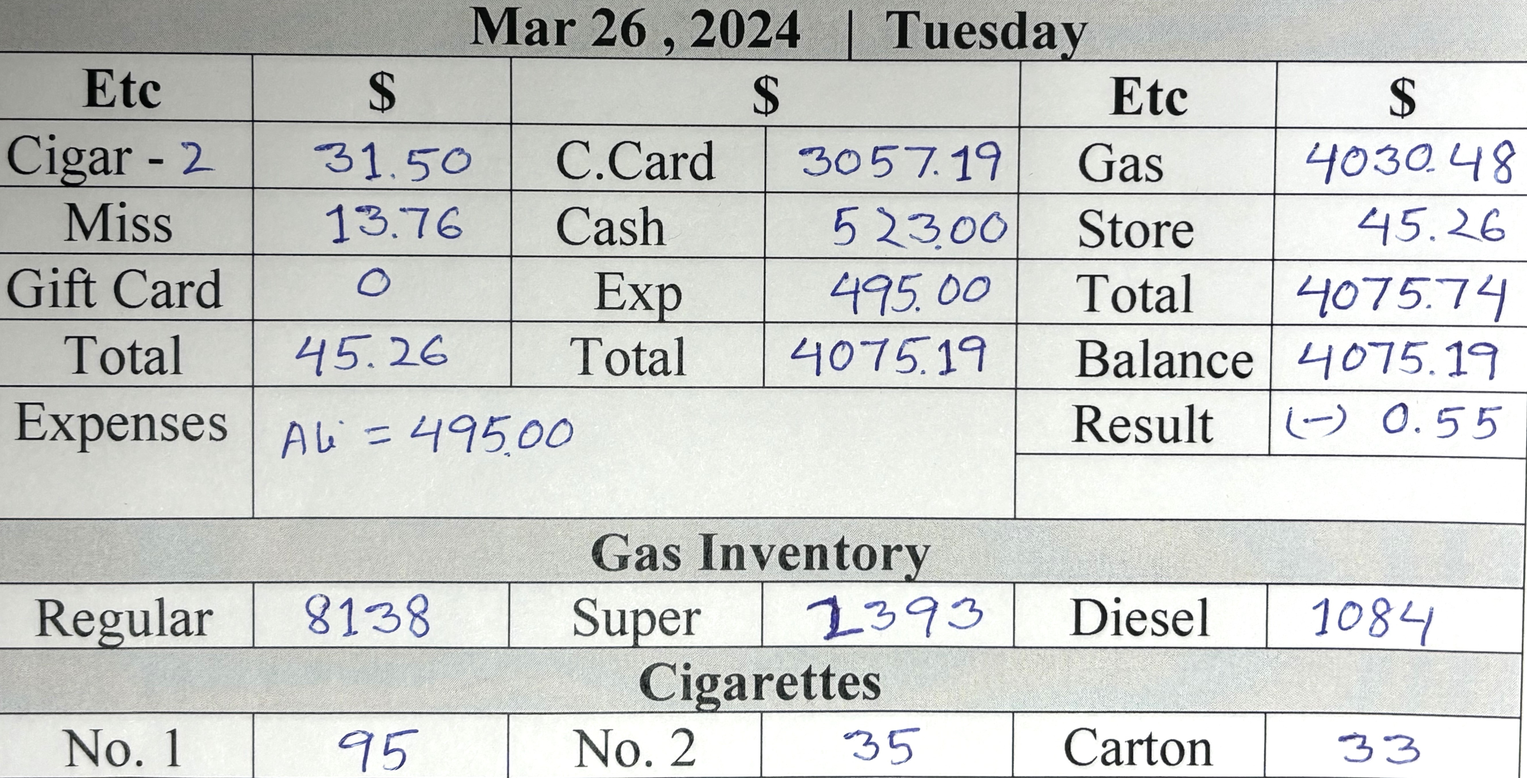
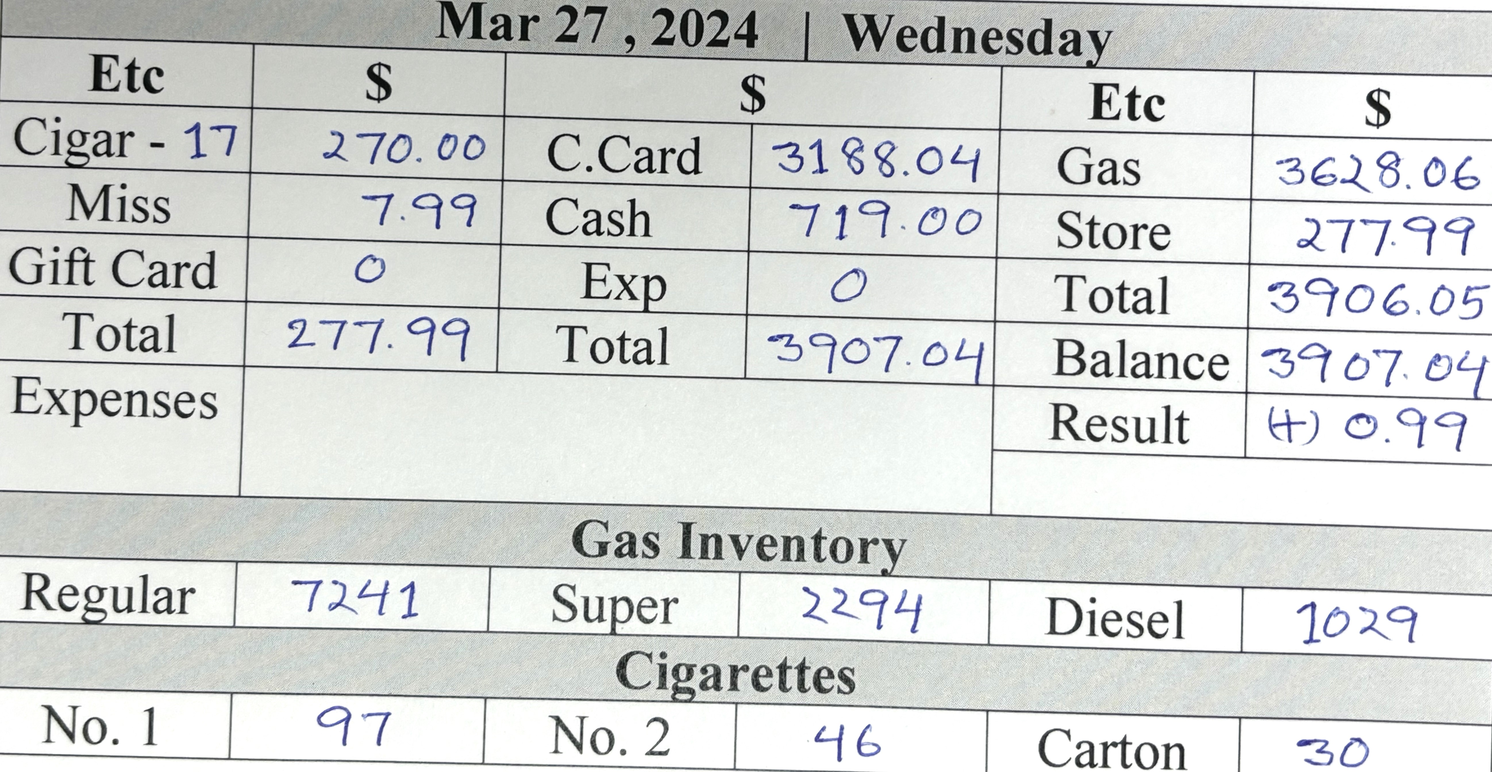
d

diff --git a/card.min.html b/card.min.html
@@ -1,1 +1,1 @@
-<!DOCTYPE html> <html lang="en"> <head> <meta charset="UTF-8"> <meta http-equiv="X-UA-Compatible" content="IE=edge"> <meta name="viewport" content="width=device-width,initial-scale=1"> <title>Gallon Info</title> <link rel="stylesheet" href="https://cdn.jsdelivr.net/npm/bootstrap@5.3.0-alpha1/dist/css/bootstrap.min.css"> </head> <body> <div class="card-group d-sm-flex flex-row bd-highlight mb- justify-content-center"> <div class="card bg-secondary align-items-center justify-content-center" style="height:50px"> <div class="card-body text-info fst-italic"> <h5 class="card-title fw-bolder text-center">Regular Price : <span class="text-warning">$3.25</span></h5> </div> </div> <div class="card bg-secondary align-items-center justify-content-center" style="height:50px"> <div class="card-body text-info fst-italic"> <h5 class="card-title fw-bolder text-center pt-">Silver Price : <span class="text-warning">$4.19</span></h5> </div> </div> <div class="card bg-secondary align-items-center justify-content-center" style="height:50px"> <div class="card-body text-info fst-italic"> <h5 class="card-title fw-bolder text-center">Super Price : <span class="text-warning">$4.29</span></h5> </div> </div> <div class="card bg-secondary align-items-center justify-content-center" style="height:50px"> <div class="card-body text-info fst-italic"> <h5 class="card-title fw-bolder text-center">Diesel Price : <span class="text-warning">$4.39</span></h5> </div> </div> </div> <div class="card-group"> <div class="card"> <button type="button" class="btn btn-warning text- fs- fw-bold text-uppercase"> For store Details <a title="printPage Me" class="text-bg-danger ms-3 fw-bolder p-1 rounded-3 text-decoration-none" href="index.html"> Click Me </a> </button> </div> </div> <div class="card-group m-0 d-sm-flex flex-row bd-highlight mb-"> <div class="card me-1 bg-info"> <h5 class="card-title text-center pt-4 m-0"> <button class="p-1 rounded-3" type="button"><a title="Click Me" class="text-decoration-none text-primary fw-bolder" href="index.html">   </a> </button> </h5>  <p class="card-text"></p> <img src="allPic/26.jpg" class="card-img-top text-danger text-center fw-bolder fs-3" alt="Call Rashid "> <div class="card-body">   <p class="card-text"></p> </div> </div> <div class="card me-1 bg-info"> <h5 class="card-title text-center pt-4 m-0"> <button class="p-1 rounded-3" type="button"><a title="Click Me" class="text-primary fw-bolder text-decoration-none" href="index.html"> Mar 25,2024 </a> </button> </h5>  <p class="card-text"></p> <img src="allPic/25.jpg" class="card-img-top text-center text-bg-danger" alt="Not Done"> <div class="card-body">   <p class="card-text"></p> </div> </div> <div class="card ms- bg-info"> <h5 class="card-title text-center pt-4 m-0"> <button class="p-1 rounded-3" type="button"><a title="Click Me" class="text-primary fw-bolder text-decoration-none" href="index.html"> Mar 24,2024 </a> </button> </h5>  <p class="card-text"></p> <img src="allPic/24.jpg" class="card-img-top text-center text-bg-danger" alt="Not Done"> <div class="card-body">   <p class="card-text"></p> </div> </div> <div class="card me-1 bg-info"> <h5 class="card-title text-center pt-4 m-0"> <button class="p-1 rounded-3" type="button"><a title="Click Me" class="text-primary fw-bolder text-decoration-none" href="index.html"> Mar 23,2024 </a> </button> </h5>  <p class="card-text"></p> <img title="Pic" src="allPic/23.jpg" class="card-img-top text-bg-danger fw-bolder text-center" alt="Already Done"> <div class="card-body">   <p class="card-text"></p> </div> </div> </div> <div class="card"> <div class="card-header bg-warning text-dark fw-bolder text-center py-3"> All Rights Reserved @ Jaber Ali , 2024 </div> </div>  <script type="text/javascript">const timeElement=document.querySelector(".time"),dateElement=document.querySelector(".date");function formatTime(e){e.getHours(),e.getMinutes(),e.getHours();return""}function formatDate(e){return` ${["January","Marruary","March","April","May","June","July","August","September","October","November","December"][e.getMonth()]} ${e.getDate()-1}, ${e.getFullYear()}`}setInterval((()=>{const e=new Date;timeElement.textContent=formatTime(e),dateElement.textContent=formatDate(e)}),200)</script> 
+<!DOCTYPE html> <html lang="en"> <head> <meta charset="UTF-8"> <meta http-equiv="X-UA-Compatible" content="IE=edge"> <meta name="viewport" content="width=device-width,initial-scale=1"> <title>Gallon Info</title> <link rel="stylesheet" href="https://cdn.jsdelivr.net/npm/bootstrap@5.3.0-alpha1/dist/css/bootstrap.min.css"> </head> <body> <div class="card-group d-sm-flex flex-row bd-highlight mb- justify-content-center"> <div class="card bg-secondary align-items-center justify-content-center" style="height:50px"> <div class="card-body text-info fst-italic"> <h5 class="card-title fw-bolder text-center">Regular Price : <span class="text-warning">$3.25</span></h5> </div> </div> <div class="card bg-secondary align-items-center justify-content-center" style="height:50px"> <div class="card-body text-info fst-italic"> <h5 class="card-title fw-bolder text-center pt-">Silver Price : <span class="text-warning">$4.19</span></h5> </div> </div> <div class="card bg-secondary align-items-center justify-content-center" style="height:50px"> <div class="card-body text-info fst-italic"> <h5 class="card-title fw-bolder text-center">Super Price : <span class="text-warning">$4.29</span></h5> </div> </div> <div class="card bg-secondary align-items-center justify-content-center" style="height:50px"> <div class="card-body text-info fst-italic"> <h5 class="card-title fw-bolder text-center">Diesel Price : <span class="text-warning">$4.39</span></h5> </div> </div> </div> <div class="card-group"> <div class="card"> <button type="button" class="btn btn-warning text- fs- fw-bold text-uppercase"> For store Details <a title="printPage Me" class="text-bg-danger ms-3 fw-bolder p-1 rounded-3 text-decoration-none" href="index.html"> Click Me </a> </button> </div> </div> <div class="card-group m-0 d-sm-flex flex-row bd-highlight mb-"> <div class="card me-1 bg-info"> <h5 class="card-title text-center pt-4 m-0"> <button class="p-1 rounded-3" type="button"><a title="Click Me" class="text-decoration-none text-primary fw-bolder" href="index.html">   </a> </button> </h5>  <p class="card-text"></p> <img src="allPic/27.jpg" class="card-img-top text-danger text-center fw-bolder fs-3" alt="Call Rashid "> <div class="card-body">   <p class="card-text"></p> </div> </div> <div class="card me-1 bg-info"> <h5 class="card-title text-center pt-4 m-0"> <button class="p-1 rounded-3" type="button"><a title="Click Me" class="text-primary fw-bolder text-decoration-none" href="index.html"> Mar 26,2024 </a> </button> </h5>  <p class="card-text"></p> <img src="allPic/26.jpg" class="card-img-top text-center text-bg-danger" alt="Not Done"> <div class="card-body">   <p class="card-text"></p> </div> </div> <div class="card ms- bg-info"> <h5 class="card-title text-center pt-4 m-0"> <button class="p-1 rounded-3" type="button"><a title="Click Me" class="text-primary fw-bolder text-decoration-none" href="index.html"> Mar 25,2024 </a> </button> </h5>  <p class="card-text"></p> <img src="allPic/25.jpg" class="card-img-top text-center text-bg-danger" alt="Not Done"> <div class="card-body">   <p class="card-text"></p> </div> </div> <div class="card me-1 bg-info"> <h5 class="card-title text-center pt-4 m-0"> <button class="p-1 rounded-3" type="button"><a title="Click Me" class="text-primary fw-bolder text-decoration-none" href="index.html"> Mar 24,2024 </a> </button> </h5>  <p class="card-text"></p> <img title="Pic" src="allPic/24.jpg" class="card-img-top text-bg-danger fw-bolder text-center" alt="Already Done"> <div class="card-body">   <p class="card-text"></p> </div> </div> </div> <div class="card"> <div class="card-header bg-warning text-dark fw-bolder text-center py-3"> All Rights Reserved @ Jaber Ali , 2024 </div> </div>  <script type="text/javascript">const timeElement=document.querySelector(".time"),dateElement=document.querySelector(".date");function formatTime(e){e.getHours(),e.getMinutes(),e.getHours();return""}function formatDate(e){return` ${["January","Marruary","March","April","May","June","July","August","September","October","November","December"][e.getMonth()]} ${e.getDate()-1}, ${e.getFullYear()}`}setInterval((()=>{const e=new Date;timeElement.textContent=formatTime(e),dateElement.textContent=formatDate(e)}),200)</script> 

diff --git a/index.min.html b/index.min.html
@@ -1,1 +1,1 @@
-<!DOCTYPE html> <html lang="en"> <head> <meta charset="UTF-8"> <meta http-equiv="X-UA-Compatible" content="IE=edge"> <meta name="viewport" content="width=device-width,initial-scale=1"> <title>Store Info</title> <link rel="stylesheet" href="https://cdn.jsdelivr.net/npm/bootstrap@5.3.0-alpha1/dist/css/bootstrap.min.css"> </head> <body> <div class="text-bg-success py-2 fw-bold text-uppercase"> <marquee behavior="" direction=""><span class="text-bolder text-bg-danger rounded-circle m-lg-2 fs-">***</span> Personal Business Information <span class="text-bolder text-bg-danger rounded-circle m-lg-2 fs-">***</span></marquee> </div> <div class="card-group"> <div class="card"> <button type="button" class="btn btn-warning fs- fw-bold text-uppercase"> For Gallon Details <a title="printPage Me" class="text-bg-danger ms-3 fw-bolder p-1 rounded-3 text-decoration-none" href="card.html"> Click Me </a> </button> </div> <div class="card"> <button type="button" class="btn btn-warning fs- fw-bold text-uppercase"> Weekly Total Money<a title="printPage Me" class="text-bg-danger ms-3 fw-bolder p-1 rounded-3 text-decoration-none" href="weekly.html"> Click Me </a> </button> </div> </div> <div class="card-group"> <div class="card"> <button type="button" class="btn btn-warning fs- fw-bold text-uppercase"> Order Cigarettes <a title="printPage Me" class="text-bg-danger ms-3 fw-bolder p-1 rounded-3 text-decoration-none" href="cigarettes.html"> Click Me </a> </button> </div> <div class="card"> <button type="button" class="btn btn-warning fs- fw-bold text-uppercase"> Oil Inventory<a title="printPage Me" class="text-bg-danger ms-3 fw-bolder p-1 rounded-3 text-decoration-none" href="oil.html"> Click Me </a> </button> </div> </div> <div class="text-center py-2"> <button class="fw-bold fs-5 rounded-2 text-bg-light text-primary"> <a title="printPage Me" class="text-decoration-none" href="card.html">   <span class=""> <button class="ms-5 fw-bolder rounded-2" onclick="printPage()"> Print Me </button></span> </a> </button> </div> <div class="card-group"> <div class="card"> <button type="button" class="btn btn-info fs- fw-bold text-uppercase"> Shift Report <span class="text-white ms-1">*</span> </button> <img src="allPic/hisab.jpg" class="card-img-top text-center text-bg-danger" alt="NOT FINISH"> </div> </div> <div class="card-grou"> <div class="card pb-3"> <button type="button" class="btn btn-secondary fs fw-bold text-uppercase"> Exp : <span class="text-warning ms-3">0 </span> </button> </div> </div> <div class="card-group"> <div class="card"> <button type="button" class="btn btn-secondary fs- fw-bold text-uppercase"> Auto shop </button> </div> </div> <div class="pb-3"> <div class="d-flex justify-content-around border border-dark fw-bolder"> <div class="p-0 text-info">T.M</div> <div class="p-0 text-danger">942 </div> <div class="p-0 text-info">Etc</div> <div class="p-0 text-danger">167</div> <div class="p-0 text-info">Rest</div> <div class="p-0 text-danger">775</div> </div> </div> <!-- #footer start --> <div class="text-bg-warning text-center py-3 fw-bold"> All Rights Reserved @ Jaber Ali , 2024 </div>  <script type="text/javascript">function printPage(){window.print()}const timeElement=document.querySelector(".time"),dateElement=document.querySelector(".date");function formatTime(t){const e=t.getHours()%12||12,n=t.getMinutes(),r=t.getHours()<12;return`${e.toString().padStart(2,"0")}:${n.toString().padStart(2,"0")} ${r?"AM":"PM"}`}function formatDate(t){return` ${["January","February","March","April","May","June","July","August","September","October","November","December"][t.getMonth()]} ${t.getDate()-1}, ${t.getFullYear()}`}setInterval((()=>{const t=new Date;timeElement.textContent=formatTime(t),dateElement.textContent=formatDate(t)}),200)</script> 
+<!DOCTYPE html> <html lang="en"> <head> <meta charset="UTF-8"> <meta http-equiv="X-UA-Compatible" content="IE=edge"> <meta name="viewport" content="width=device-width,initial-scale=1"> <title>Store Info</title> <link rel="stylesheet" href="https://cdn.jsdelivr.net/npm/bootstrap@5.3.0-alpha1/dist/css/bootstrap.min.css"> </head> <body> <div class="text-bg-success py-2 fw-bold text-uppercase"> <marquee behavior="" direction=""><span class="text-bolder text-bg-danger rounded-circle m-lg-2 fs-">***</span> Personal Business Information <span class="text-bolder text-bg-danger rounded-circle m-lg-2 fs-">***</span></marquee> </div> <div class="card-group"> <div class="card"> <button type="button" class="btn btn-warning fs- fw-bold text-uppercase"> For Gallon Details <a title="printPage Me" class="text-bg-danger ms-3 fw-bolder p-1 rounded-3 text-decoration-none" href="card.html"> Click Me </a> </button> </div> <div class="card"> <button type="button" class="btn btn-warning fs- fw-bold text-uppercase"> Weekly Total Money<a title="printPage Me" class="text-bg-danger ms-3 fw-bolder p-1 rounded-3 text-decoration-none" href="weekly.html"> Click Me </a> </button> </div> </div> <div class="card-group"> <div class="card"> <button type="button" class="btn btn-warning fs- fw-bold text-uppercase"> Order Cigarettes <a title="printPage Me" class="text-bg-danger ms-3 fw-bolder p-1 rounded-3 text-decoration-none" href="cigarettes.html"> Click Me </a> </button> </div> <div class="card"> <button type="button" class="btn btn-warning fs- fw-bold text-uppercase"> Oil Inventory<a title="printPage Me" class="text-bg-danger ms-3 fw-bolder p-1 rounded-3 text-decoration-none" href="oil.html"> Click Me </a> </button> </div> </div> <div class="text-center py-2"> <button class="fw-bold fs-5 rounded-2 text-bg-light text-primary"> <a title="printPage Me" class="text-decoration-none" href="card.html">   <span class=""> <button class="ms-5 fw-bolder rounded-2" onclick="printPage()"> Print Me </button></span> </a> </button> </div> <div class="card-group"> <div class="card"> <button type="button" class="btn btn-info fs- fw-bold text-uppercase"> Shift Report <span class="text-white ms-1">*</span> </button> <img src="allPic/hisab.jpg" class="card-img-top text-center text-bg-danger" alt="NOT FINISH"> </div> </div> <div class="card-grou"> <div class="card pb-3"> <button type="button" class="btn btn-secondary fs fw-bold text-uppercase"> Exp : <span class="text-warning ms-3">0 </span> </button> </div> </div> <div class="card-group"> <div class="card"> <button type="button" class="btn btn-secondary fs- fw-bold text-uppercase"> Auto shop </button> </div> </div> <div class="pb-3"> <div class="d-flex justify-content-around border border-dark fw-bolder"> <div class="p-0 text-info">T.M</div> <div class="p-0 text-danger">1077 </div> <div class="p-0 text-info">Etc</div> <div class="p-0 text-danger">260</div> <div class="p-0 text-info">Rest</div> <div class="p-0 text-danger">817</div> </div> </div> <!-- #footer start --> <div class="text-bg-warning text-center py-3 fw-bold"> All Rights Reserved @ Jaber Ali , 2024 </div>  <script type="text/javascript">function printPage(){window.print()}const timeElement=document.querySelector(".time"),dateElement=document.querySelector(".date");function formatTime(t){const e=t.getHours()%12||12,n=t.getMinutes(),r=t.getHours()<12;return`${e.toString().padStart(2,"0")}:${n.toString().padStart(2,"0")} ${r?"AM":"PM"}`}function formatDate(t){return` ${["January","February","March","April","May","June","July","August","September","October","November","December"][t.getMonth()]} ${t.getDate()-1}, ${t.getFullYear()}`}setInterval((()=>{const t=new Date;timeElement.textContent=formatTime(t),dateElement.textContent=formatDate(t)}),200)</script> 

diff --git a/weekly.min.html b/weekly.min.html
@@ -1,1 +1,1 @@
-<!DOCTYPE html> <html lang="en"> <meta charset="UTF-8"> <meta http-equiv="X-UA-Compatible" content="IE=edge"> <meta name="viewport" content="width=device-width,initial-scale=1"> <title>Cigarettes Info</title> <link rel="stylesheet" href="https://cdn.jsdelivr.net/npm/bootstrap@5.3.0-alpha1/dist/css/bootstrap.min.css">  <body> <div class="text-bg-success py-2 fw-bold"> <marquee behavior="" direction="">Weekly Total Sales Money</marquee> </div> <div class="container-fluid text-center m-0 p-0"> <div class="card-group"> <div class="card"> <button type="button" class="btn btn-warning fs- fw-bold text-uppercase"> Home Page <a title="printPage Me" class="text-bg-danger ms-2 fw-bolder p-1 rounded-3 text-decoration-none" href="index.html"> Click Me </a> </button> </div> </div> <div class="text-bg-info text-cente py- fw-bold mb-"> <div class="card-group m-0 d-sm-flex flex-row bd-highlight mb-"> <div class="card me- bg-inf"> <h5 class="text-center ms-5 mt-3 text-danger">Current Week</h5> <div class="card-body ms-3 p-0"> <table class="table"> <tr class="text-end"> <td>Monday </td> <td>:</td> <td class="text-start"> 1040.00</td> </tr> <tr class="text-end"> <td>Tuesday </td> <td> :</td> <td class="text-start"> 1018.00 </td> </tr> <tr class="text-end"> <td>Wednesday</td> <td> :</td> <td class="text-start">.00</td> </tr> <tr class="text-end"> <td>Thursday </td> <td> :</td> <td class="text-start">.00 </td> </tr> <tr class="text-end"> <td class="">Friday </td> <td> :</td> <td class="text-start"> .00</td> </tr> <tr class="text-end"> <td>Saturday </td> <td> :</td> <td class="text-start">.00</td> </tr> <tr class="text-end"> <td>Sunday </td> <td> :</td> <td class="text-start"> .00 </td> </tr> <tr class="text-end"> <td>Auto Money </td> <td> :</td> <td class="text-start"> .00 </td> </tr> </table> <div class="m-0 p-0"> <p class="text-center text-danger bg-light fw-bold">Total Money : 0 </p> </div> </div> </div> <div class="card me- bg-inf"> <h5 class="text-center ms- mt-3 text-danger">Last Week : Mar 18 to 24 , 2024</h5> <div class="card-body ms-3 p-0"> <table class="table"> <tr class="text-end"> <td>Monday </td> <td>:</td> <td class="text-start"> 802.00</td> </tr> <tr class="text-end"> <td>Tuesday </td> <td> :</td> <td class="text-start"> 665.00 </td> </tr> <tr class="text-end"> <td>Wednesday</td> <td> :</td> <td class="text-start">762.00</td> </tr> <tr class="text-end"> <td>Thursday </td> <td> :</td> <td class="text-start">585.00 </td> </tr> <tr class="text-end"> <td class="">Friday </td> <td> :</td> <td class="text-start"> 765.00</td> </tr> <tr class="text-end"> <td>Saturday </td> <td> :</td> <td class="text-start">179.00</td> </tr> <tr class="text-end"> <td>Sunday </td> <td> :</td> <td class="text-start"> 878.00 </td> </tr> <tr class="text-end"> <td>Auto Money </td> <td> :</td> <td class="text-start">749 <sup class="p-1 rounded-4 text-bg-dark">Tax:52</sup> [Mostofa=696.5] </td> </tr> </table> <div class="m-0 p-0"> <p class="text-center text-danger bg-light fw-bold">Total Money : 5385 - 1223 = 4162 </p> </div> </div> </div> <div class="card me- bg-"> <div class="card-body"> <h5 class="text-start text-danger ms-2">Expenses of Last Week</h5> <table class="table text-start"> <tr> <td class="">Ali <span class="ms-5">: 495.00</span></td> </tr> <tr> <td class="">Rashid <span class="ms-3">: 728.00</span></td> </tr> <tr> <td class="text-bg-warning text-dark rounded-2">Total <span class="ms-4">: 1223.00</span></td> </tr> </table> </div> </div> </div> </div> <!-- #footer start --> <div class="text-bg-success text-center py-2 fw-bold"> <p> All Rights Reserved @ Jaber Ali , 2024  </p> </div> </div> <script type="text/javascript">function printPage(){window.print()}</script> 
+<!DOCTYPE html> <html lang="en"> <meta charset="UTF-8"> <meta http-equiv="X-UA-Compatible" content="IE=edge"> <meta name="viewport" content="width=device-width,initial-scale=1"> <title>Cigarettes Info</title> <link rel="stylesheet" href="https://cdn.jsdelivr.net/npm/bootstrap@5.3.0-alpha1/dist/css/bootstrap.min.css">  <body> <div class="text-bg-success py-2 fw-bold"> <marquee behavior="" direction="">Weekly Total Sales Money</marquee> </div> <div class="container-fluid text-center m-0 p-0"> <div class="card-group"> <div class="card"> <button type="button" class="btn btn-warning fs- fw-bold text-uppercase"> Home Page <a title="printPage Me" class="text-bg-danger ms-2 fw-bolder p-1 rounded-3 text-decoration-none" href="index.html"> Click Me </a> </button> </div> </div> <div class="text-bg-info text-cente py- fw-bold mb-"> <div class="card-group m-0 d-sm-flex flex-row bd-highlight mb-"> <div class="card me- bg-inf"> <h5 class="text-center ms-5 mt-3 text-danger">Current Week</h5> <div class="card-body ms-3 p-0"> <table class="table"> <tr class="text-end"> <td>Monday </td> <td>:</td> <td class="text-start"> 1040.00</td> </tr> <tr class="text-end"> <td>Tuesday </td> <td> :</td> <td class="text-start"> 1018.00 </td> </tr> <tr class="text-end"> <td>Wednesday</td> <td> :</td> <td class="text-start">719.00</td> </tr> <tr class="text-end"> <td>Thursday </td> <td> :</td> <td class="text-start">.00 </td> </tr> <tr class="text-end"> <td class="">Friday </td> <td> :</td> <td class="text-start"> .00</td> </tr> <tr class="text-end"> <td>Saturday </td> <td> :</td> <td class="text-start">.00</td> </tr> <tr class="text-end"> <td>Sunday </td> <td> :</td> <td class="text-start"> .00 </td> </tr> <tr class="text-end"> <td>Auto Money </td> <td> :</td> <td class="text-start"> .00 </td> </tr> </table> <div class="m-0 p-0"> <p class="text-center text-danger bg-light fw-bold">Total Money : 0 </p> </div> </div> </div> <div class="card me- bg-inf"> <h5 class="text-center ms- mt-3 text-danger">Last Week : Mar 18 to 24 , 2024</h5> <div class="card-body ms-3 p-0"> <table class="table"> <tr class="text-end"> <td>Monday </td> <td>:</td> <td class="text-start"> 802.00</td> </tr> <tr class="text-end"> <td>Tuesday </td> <td> :</td> <td class="text-start"> 665.00 </td> </tr> <tr class="text-end"> <td>Wednesday</td> <td> :</td> <td class="text-start">762.00</td> </tr> <tr class="text-end"> <td>Thursday </td> <td> :</td> <td class="text-start">585.00 </td> </tr> <tr class="text-end"> <td class="">Friday </td> <td> :</td> <td class="text-start"> 765.00</td> </tr> <tr class="text-end"> <td>Saturday </td> <td> :</td> <td class="text-start">179.00</td> </tr> <tr class="text-end"> <td>Sunday </td> <td> :</td> <td class="text-start"> 878.00 </td> </tr> <tr class="text-end"> <td>Auto Money </td> <td> :</td> <td class="text-start">749 <sup class="p-1 rounded-4 text-bg-dark">Tax:52</sup> [Mostofa=696.5] </td> </tr> </table> <div class="m-0 p-0"> <p class="text-center text-danger bg-light fw-bold">Total Money : 5385 - 1223 = 4162 </p> </div> </div> </div> <div class="card me- bg-"> <div class="card-body"> <h5 class="text-start text-danger ms-2">Expenses of Last Week</h5> <table class="table text-start"> <tr> <td class="">Ali <span class="ms-5">: 495.00</span></td> </tr> <tr> <td class="">Rashid <span class="ms-3">: 728.00</span></td> </tr> <tr> <td class="text-bg-warning text-dark rounded-2">Total <span class="ms-4">: 1223.00</span></td> </tr> </table> </div> </div> </div> </div> <!-- #footer start --> <div class="text-bg-success text-center py-2 fw-bold"> <p> All Rights Reserved @ Jaber Ali , 2024  </p> </div> </div> <script type="text/javascript">function printPage(){window.print()}</script> 

diff --git a/card.html b/card.html
@@ -67,7 +67,7 @@
         </h5>
           <p class="card-text"></p>
           <p class="card-text"><small class="text-muted"></small></p>
-        <img src="allPic/26.jpg" class="card-img-top text-danger text-center fw-bolder fs-3"   alt="Call Rashid ">
+        <img src="allPic/27.jpg" class="card-img-top text-danger text-center fw-bolder fs-3"   alt="Call Rashid ">
         <div class="card-body">
           <h5 class="card-title"></h5>
           <p class="card-text"></p>
@@ -78,13 +78,13 @@
         <h5 class="card-title text-center pt-4 m-0">
           <button class="p-1 rounded-3" type="button"><a title="Click Me"
              class="text-primary fw-bolder text-decoration-none " href="index.html">
-             Mar 25,2024
+             Mar 26,2024
           </a>
           </button>
         </h5>
           <p class="card-text"></p>
           <p class="card-text"><small class="text-muted"></small></p>
-        <img src="allPic/25.jpg" class="card-img-top text-center text-bg-danger" 
+        <img src="allPic/26.jpg" class="card-img-top text-center text-bg-danger" 
         alt="Not Done">
         <div class="card-body">
           <h5 class="card-title"></h5>
@@ -96,13 +96,13 @@
         <h5 class="card-title text-center pt-4 m-0 ">
           <button class="p-1 rounded-3" type="button"><a title="Click Me" 
             class="text-primary fw-bolder text-decoration-none " href="index.html">
-            Mar 24,2024         
+            Mar 25,2024         
           </a>
           </button>
           </h5>
           <p class="card-text"></p>
           <p class="card-text"><small class="text-muted"></small></p>
-        <img src="allPic/24.jpg" class="card-img-top text-center text-bg-danger" 
+        <img src="allPic/25.jpg" class="card-img-top text-center text-bg-danger" 
         alt="Not Done">
         <div class="card-body">
           <h5 class="card-title"></h5>
@@ -115,13 +115,13 @@
         <h5 class="card-title text-center pt-4 m-0 ">
           <button class="p-1 rounded-3" type="button"><a title="Click Me" 
             class="text-primary fw-bolder text-decoration-none " href="index.html">
-             Mar 23,2024
+             Mar 24,2024
             </a>
           </button>
           </h5>
           <p class="card-text"></p>
           <p class="card-text"><small class="text-muted"></small></p>
-        <img title="Pic" src="allPic/23.jpg" class="card-img-top  text-bg-danger fw-bolder text-center"
+        <img title="Pic" src="allPic/24.jpg" class="card-img-top  text-bg-danger fw-bolder text-center"
          alt="Already Done">
         <div class="card-body">
           <h5 class="card-title"></h5>

diff --git a/index.html b/index.html
@@ -118,11 +118,11 @@
       <div class="d-flex justify-content-around border border-dark fw-bolder">
         <!--this week start-->
         <div class="p-0 text-info">T.M</div>
-        <div class="p-0 text-danger">942 </div>
+        <div class="p-0 text-danger">1077 </div>
         <div class="p-0 text-info">Etc</div>
-        <div class="p-0 text-danger">167</div>
+        <div class="p-0 text-danger">260</div>
         <div class="p-0 text-info">Rest</div>
-        <div class="p-0 text-danger">775</div>
+        <div class="p-0 text-danger">817</div>
           <!--56-->
         </div>
       </div>

diff --git a/weekly.html b/weekly.html
@@ -59,7 +59,7 @@
                 <tr class=" text-end">
                     <td>Wednesday</td>
                     <td> :</td>
-                    <td class="text-start">.00</td>
+                    <td class="text-start">719.00</td>
                 </tr>
                 <tr class=" text-end">
                     <td>Thursday </td>
